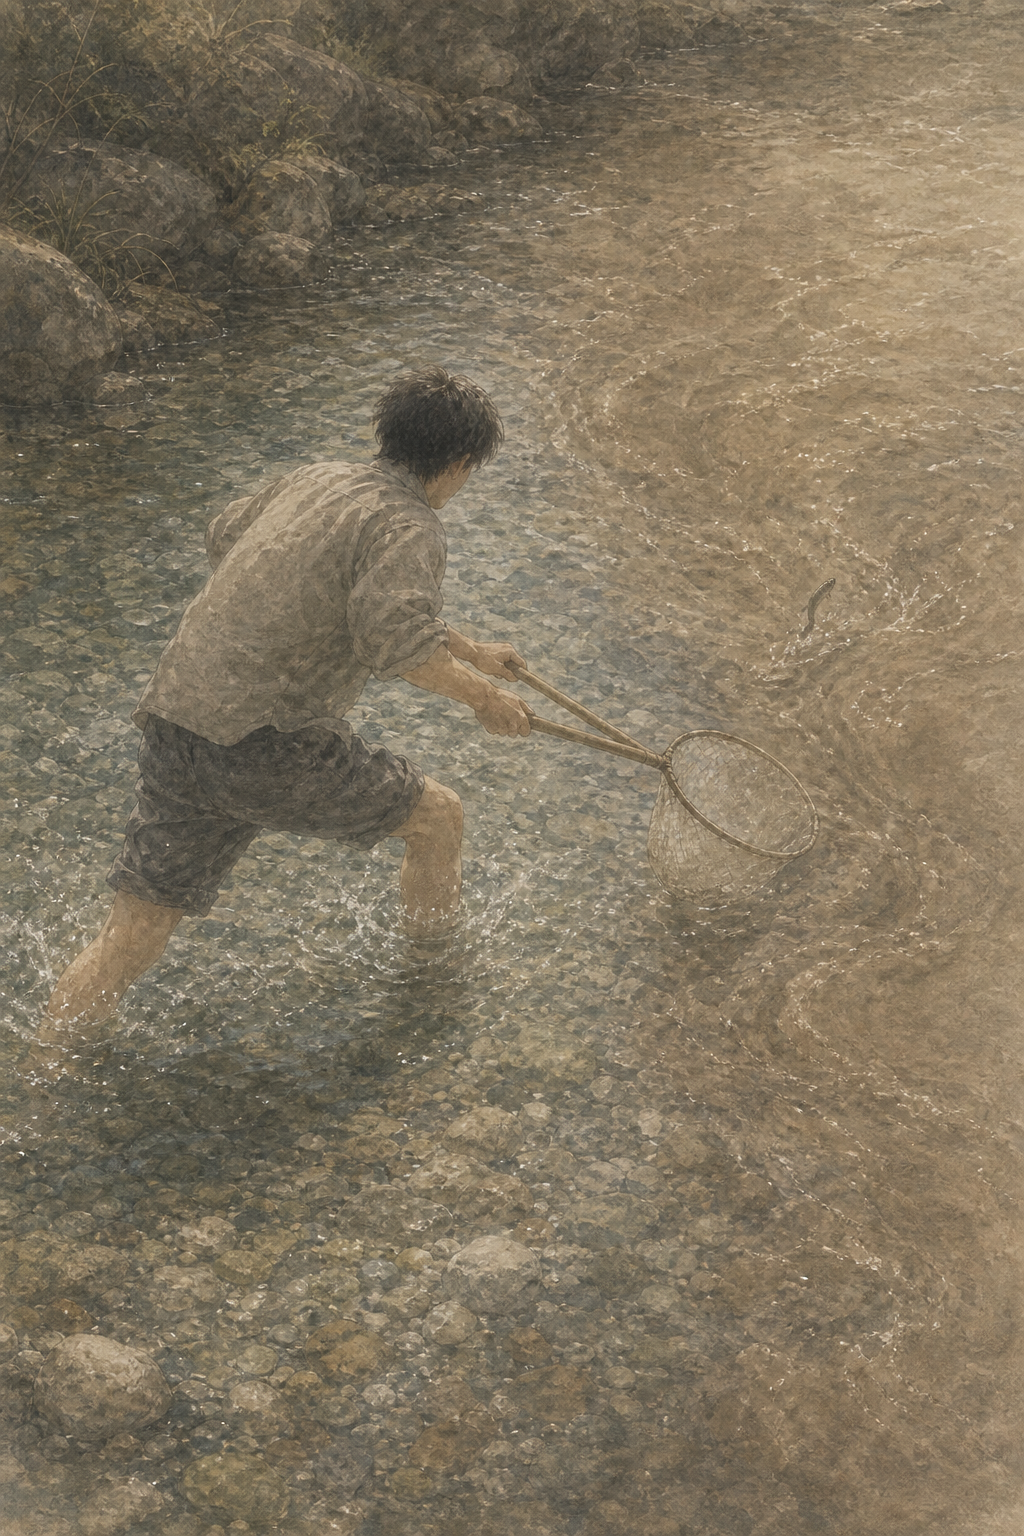
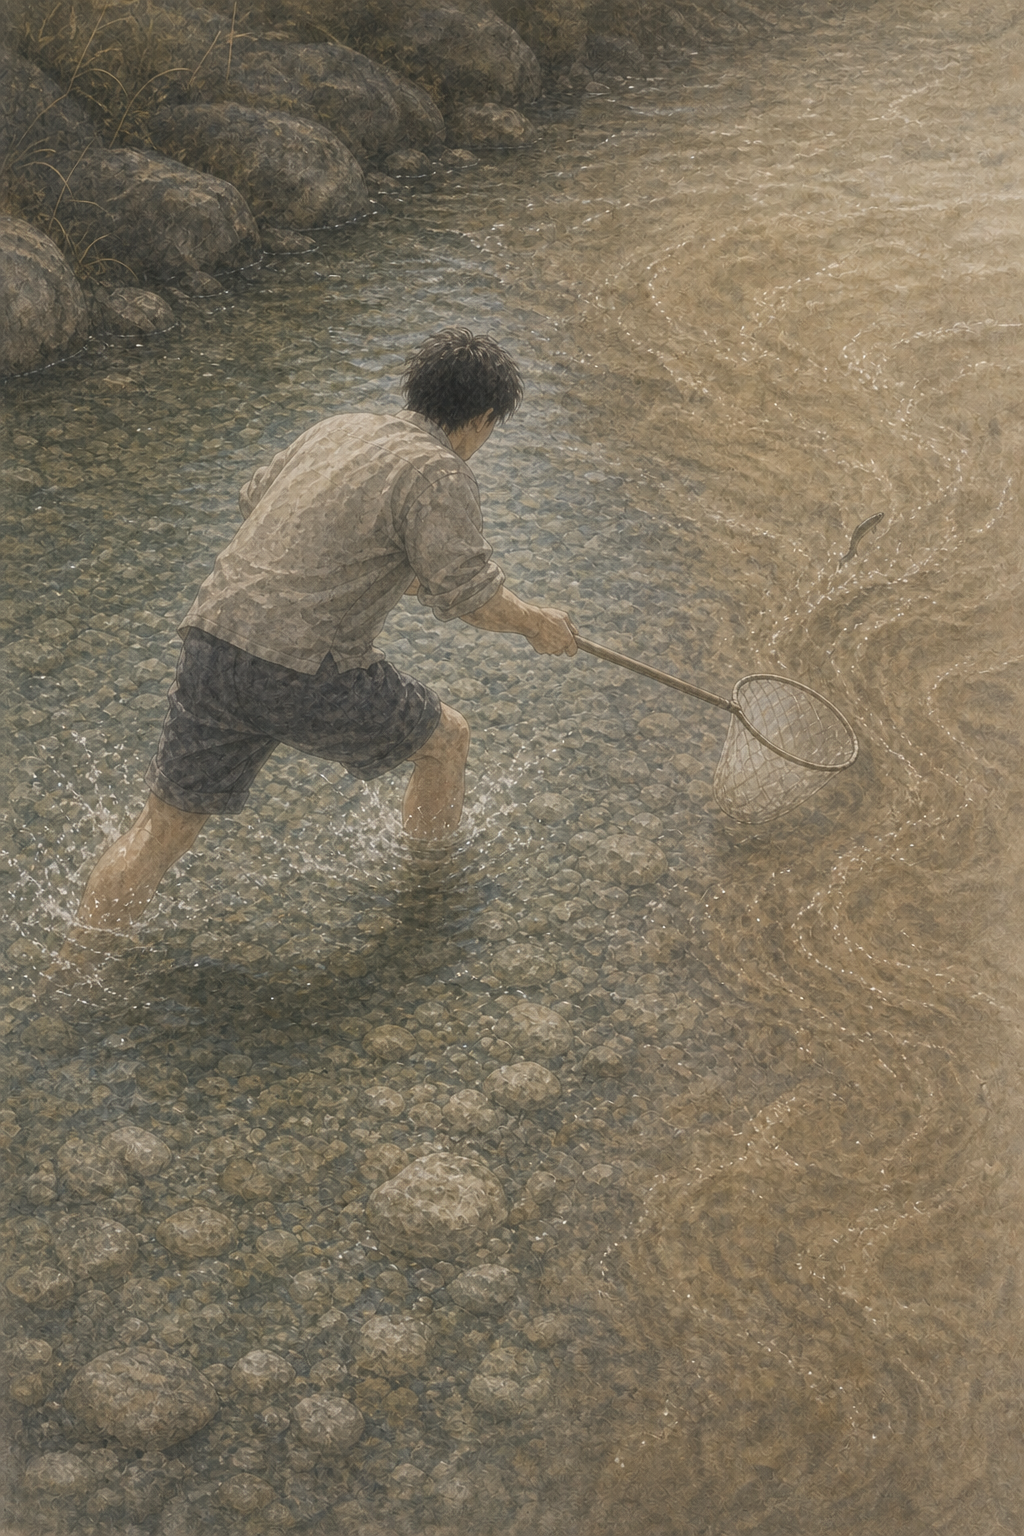
fix: correct chiliu net handle [AGENT: peri]

diff --git a/scripts/pass4-image-briefs.py b/scripts/pass4-image-briefs.py
@@ -180,8 +180,8 @@ VISUALS = {
         "must_not_show": ["person on dry land", "spatial collage"],
         "setting": "cold shallow mountain creek with clear stones upstream and muddy current pocket downstream",
         "figures": "one anonymous adult knee-deep in water, sleeves/shorts practical, holding a butterfly net awkwardly",
-        "action": "the person lunges with the butterfly net as a small fish slips from clear shallows into muddy current",
-        "objects": "butterfly net, clear creek stones, fish blur, muddy swirl",
+        "action": "the person lunges with one butterfly net that has exactly one long handle held by both hands as a small fish slips from clear shallows into muddy current",
+        "objects": "one butterfly net with exactly one long handle held by both hands, clear creek stones, fish blur, muddy swirl",
         "emotion": "earnest over-equipped playfulness and comic failure",
         "commentary": "恢恢扑蝶网 becomes absurd fishing tool; 悠悠淌冰溪; fish appears then 哧溜 disappears into 湍泥",
         "source": "No source photos in poem frontmatter.",

diff --git a/assets/poems/哧溜/illustration.prompt.md b/assets/poems/哧溜/illustration.prompt.md
@@ -11,8 +11,8 @@ camera_and_composition: low creek-level view, coherent single scene, portrait 2:
 light_and_color: Restrained literary palette; preserve source-photo light/palette only when specified in source_photo_contract.
 style: Textless contemporary Chinese literary illustration, ink-wash plus soft gouache, fine paper grain, restrained detail.
 page_layout_constraints: Leave quiet negative space and low contrast so poem, pinyin, context, and commentary remain dominant and legible.
-negative_constraints: person on dry land; collage composition; text; Chinese characters; calligraphy; seals; watermark; labels; AI-art orbs; private identifiable faces
-final_image_prompt: Create a textless portrait 2:3 contemporary Chinese literary illustration for 《哧溜》. Scene/backdrop: cold shallow mountain creek with clear stones upstream and muddy current pocket downstream. Foreground: knee-deep water around legs, splashes. Middle ground: awkward net lunge at fish trail. Background: clear creek bed turning into muddy current. Human figures and actions: one anonymous adult knee-deep in water, sleeves/shorts practical, holding a butterfly net awkwardly; the person lunges with the butterfly net as a small fish slips from clear shallows into muddy current. Required objects: butterfly net, clear creek stones, fish blur, muddy swirl. Emotion and story: earnest over-equipped playfulness and comic failure. Composition/camera: low creek-level view, coherent single scene, portrait 2:3. Symbolic mapping: grand net versus tiny fish maps to comic scale collapse; clear-to-mud maps to 现/没. Style: restrained ink-wash plus soft gouache, muted paper-compatible palette, fine grain, low contrast. Do not show: person on dry land; collage composition; no text, no Chinese characters, no calligraphy, no seals, no watermark.
-source_generated_image: /Users/utensil/.codex-peri/generated_images/019e82e9-a976-7d02-b116-300972fd6a7c/ig_0daedd9e66ce5d7f016a1ecbf216f081968e7c8bf5ad91cdec.png
-must_show: person knee-deep in creek water; butterfly net used for fish; clear shallow bottom; fish vanishing into muddy current; comic ordinary liveliness
-coverage_check: person knee-deep in creek water covered in final_image_prompt; butterfly net used for fish covered in final_image_prompt; clear shallow bottom covered in final_image_prompt; fish vanishing into muddy current covered in final_image_prompt; comic ordinary liveliness covered in final_image_prompt
+negative_constraints: person on dry land; collage composition; two-handle net; text; Chinese characters; calligraphy; seals; watermark; labels; AI-art orbs; private identifiable faces
+final_image_prompt: Create a textless portrait 2:3 contemporary Chinese literary illustration for 《哧溜》. Scene/backdrop: cold shallow mountain creek with clear stones upstream and muddy current pocket downstream. Foreground: knee-deep water around legs, splashes. Middle ground: awkward net lunge at fish trail. Background: clear creek bed turning into muddy current. Human figures and actions: one anonymous adult knee-deep in water, sleeves/shorts practical, holding one butterfly net with exactly one long handle held by both hands; the person lunges with this single-handle net as a small fish slips from clear shallows into muddy current. Required objects: one butterfly net with exactly one long handle, clear creek stones, fish blur, muddy swirl. Emotion and story: earnest over-equipped playfulness and comic failure. Composition/camera: low creek-level view, coherent single scene, portrait 2:3. Symbolic mapping: grand net versus tiny fish maps to comic scale collapse; clear-to-mud maps to 现/没. Style: restrained ink-wash plus soft gouache, muted paper-compatible palette, fine grain, low contrast. Do not show: person on dry land; collage composition; two-handle net; no text, no Chinese characters, no calligraphy, no seals, no watermark.
+source_generated_image: /Users/utensil/.codex-peri/generated_images/019e82e9-a976-7d02-b116-300972fd6a7c/ig_0daedd9e66ce5d7f016a1ed84f7cac8196974d57ab83b906fd.png
+must_show: person knee-deep in creek water; butterfly net used for fish; single-handle net; clear shallow bottom; fish vanishing into muddy current; comic ordinary liveliness
+coverage_check: person knee-deep in creek water covered in final_image_prompt; butterfly net used for fish covered in final_image_prompt; single-handle net covered in final_image_prompt; clear shallow bottom covered in final_image_prompt; fish vanishing into muddy current covered in final_image_prompt; comic ordinary liveliness covered in final_image_prompt

diff --git a/assets/poems/哧溜/illustration.brief.md b/assets/poems/哧溜/illustration.brief.md
@@ -19,14 +19,14 @@ composition: Portrait 2:3 book illustration; visible story must read at page sca
 symbolic_mapping: grand net versus tiny fish maps to comic scale collapse; clear-to-mud maps to 现/没
 page_layout_role: Textless page illustration for the Typst poem book; image supports poem/context/commentary and must stay low-contrast enough for text.
 avoid: person on dry land; collage composition; text; Chinese characters; calligraphy; seal; watermark; private identifiable faces
-must_show: person knee-deep in creek water; butterfly net used for fish; clear shallow bottom; fish vanishing into muddy current; comic ordinary liveliness
-must_not_show: person on dry land; collage composition
+must_show: person knee-deep in creek water; butterfly net used for fish; single-handle net; clear shallow bottom; fish vanishing into muddy current; comic ordinary liveliness
+must_not_show: person on dry land; collage composition; two-handle net
 setting_contract: cold shallow mountain creek with clear stones upstream and muddy current pocket downstream
 figure_contract: one anonymous adult knee-deep in water, sleeves/shorts practical, holding a butterfly net awkwardly
-action_contract: the person lunges with the butterfly net as a small fish slips from clear shallows into muddy current
-object_contract: butterfly net, clear creek stones, fish blur, muddy swirl
+action_contract: the person lunges with one butterfly net that has exactly one long handle held by both hands as a small fish slips from clear shallows into muddy current
+object_contract: one butterfly net with exactly one long handle held by both hands, clear creek stones, fish blur, muddy swirl
 emotion_contract: earnest over-equipped playfulness and comic failure
 commentary_contract: 恢恢扑蝶网 becomes absurd fishing tool; 悠悠淌冰溪; fish appears then 哧溜 disappears into 湍泥
 source_photo_contract: No source photos in poem frontmatter.
 composition_contract: low creek-level view, coherent single scene, portrait 2:3; knee-deep water around legs, splashes / awkward net lunge at fish trail / clear creek bed turning into muddy current
-coverage_check: person knee-deep in creek water -> final prompt foreground; butterfly net used for fish -> final prompt middle_ground; clear shallow bottom -> final prompt background; fish vanishing into muddy current -> final prompt human_figures; comic ordinary liveliness -> final prompt action
+coverage_check: person knee-deep in creek water -> final prompt foreground; butterfly net used for fish -> final prompt middle_ground; single-handle net -> final prompt action; clear shallow bottom -> final prompt background; fish vanishing into muddy current -> final prompt human_figures; comic ordinary liveliness -> final prompt action

diff --git a/assets/poems/哧溜/illustration.notes.md b/assets/poems/哧溜/illustration.notes.md
@@ -2,12 +2,12 @@
 image-status: generated
 prompt-source: pass4-primary-source-brief
 brief-status: pass4-written
-review-status: pass4-contact-sheet-approved
+review-status: pass4-single-handle-net-approved
 source-poem: src/poems/心情与事件/哧溜.md
 source-commentary: src/commentaries/心情与事件/哧溜.md
 source-images: none
 generation-tool: built-in image_gen
-generated-image-source: /Users/utensil/.codex-peri/generated_images/019e82e9-a976-7d02-b116-300972fd6a7c/ig_0daedd9e66ce5d7f016a1ecbf216f081968e7c8bf5ad91cdec.png
+generated-image-source: /Users/utensil/.codex-peri/generated_images/019e82e9-a976-7d02-b116-300972fd6a7c/ig_0daedd9e66ce5d7f016a1ed84f7cac8196974d57ab83b906fd.png
 regeneration-scope: pass4-regenerate
 pass4-decision: regenerate
 human-feedback: pass4 visual story contract correction; fresh brief/prompt regenerated
